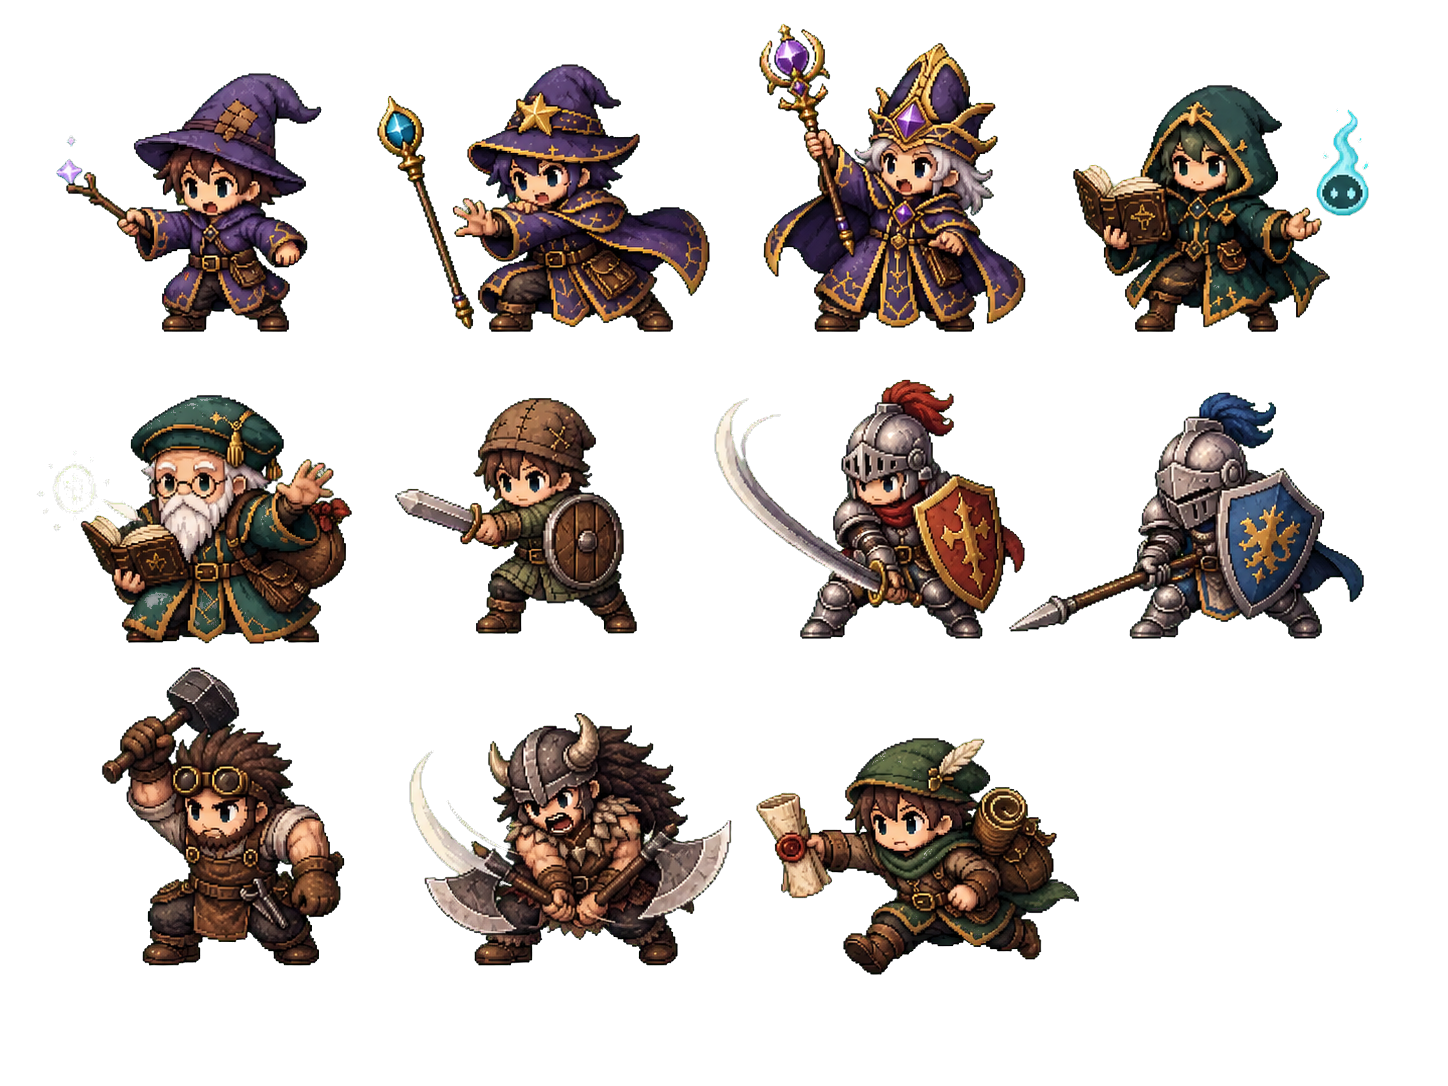
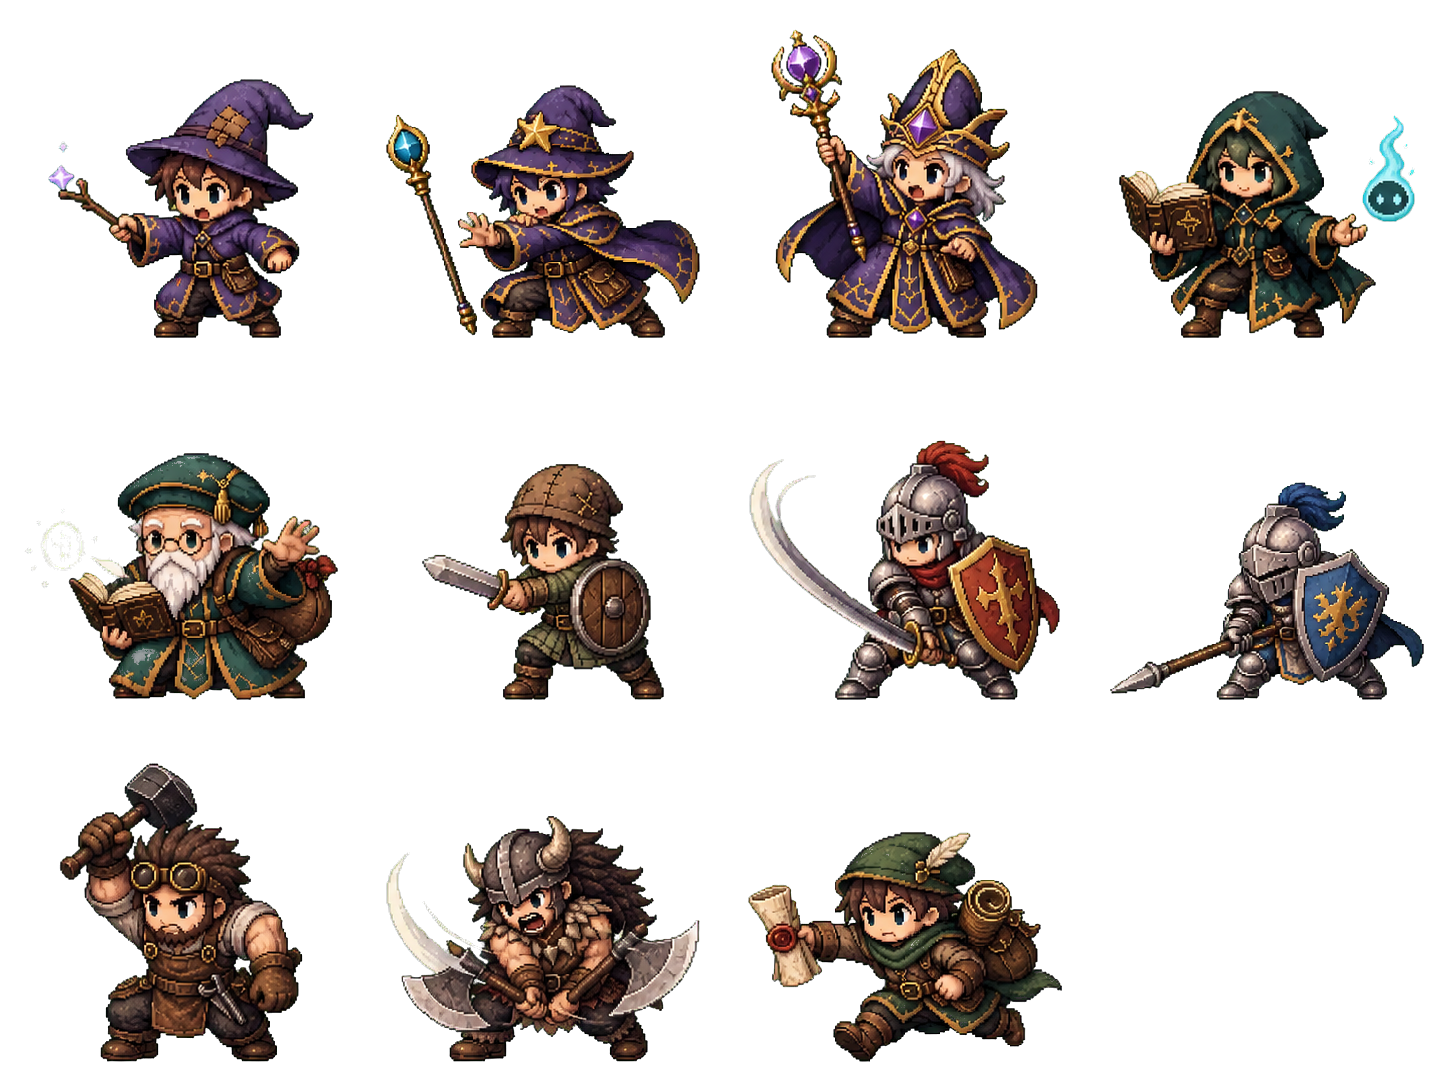
Show only controllable sessions and isolate attack sprites

diff --git a/guild.html b/guild.html
@@ -922,6 +922,7 @@
       let sessionPanelVisible = window.innerWidth >= 900;
       let sessionFilter = '';
       let lastFocusedElement = null;
+      const terminalControl = new Map();
       const REDUCED_MOTION = window.matchMedia('(prefers-reduced-motion: reduce)').matches;
 
       const DEMO = [
@@ -966,6 +967,7 @@
                 connEl.textContent = '온라인';
                 connEl.className = '';
                 layout();
+                probeTerminalControl(list);
               }
             } catch {}
           };
@@ -986,6 +988,27 @@
           agents = DEMO_MODE ? DEMO : [];
           layout();
         }
+      }
+
+      function probeTerminalControl(list) {
+        if (DEMO_MODE) return;
+        for (const a of list) {
+          const pid = Number(a?.pid);
+          if (!Number.isFinite(pid) || terminalControl.has(pid)) continue;
+          terminalControl.set(pid, 'checking');
+          fetch(API + '/api/screen/' + encodeURIComponent(pid))
+            .then((r) => r.json())
+            .then((data) => terminalControl.set(pid, data?.ok === true))
+            .catch(() => terminalControl.set(pid, false))
+            .finally(() => layout());
+        }
+      }
+
+      function isMapControllable(a) {
+        if (DEMO_MODE) return true;
+        const pid = Number(a?.pid);
+        if (!Number.isFinite(pid)) return false;
+        return terminalControl.get(pid) === true;
       }
 
       // ── 색 유틸 ──────────────────────────────────────────────────────────
@@ -2318,8 +2341,12 @@
         }
         const floor = agents.filter((a) => !DEAD.has(a.state));
         for (const a of floor) if (a.state === 'working' || a.state === 'needs_input') stashedIds.delete(a.id);
-        const restingAgents = floor.filter((a) => a.state === 'idle' || a.state === 'unknown' || stashedIds.has(a.id));
-        const activeAgents = floor.filter((a) => a.state !== 'idle' && a.state !== 'unknown' && !stashedIds.has(a.id));
+        const restingAgents = floor.filter(
+          (a) => a.state === 'idle' || a.state === 'unknown' || stashedIds.has(a.id) || !isMapControllable(a),
+        );
+        const activeAgents = floor.filter(
+          (a) => a.state !== 'idle' && a.state !== 'unknown' && !stashedIds.has(a.id) && isMapControllable(a),
+        );
         const resting = restingAgents.length + agents.length - floor.length;
         countEl.textContent = activeAgents.length + (resting ? ' (+' + resting + ' 막사)' : '');
         if (killsEl) killsEl.textContent = agents.filter((a) => a.state === 'done').length;
@@ -4797,6 +4824,16 @@
         clearTimeout(toastTimer);
         toastTimer = setTimeout(() => (toastEl.style.display = 'none'), 2600);
       }
+      function openAgentInteraction(m, clientX = mouse.x, clientY = mouse.y) {
+        const pid = Number(m?.a?.pid);
+        if (Number.isFinite(pid) && isMapControllable(m.a)) {
+          closeJobMenu();
+          openControlPanel(m.a);
+          readAgentScreen(m.a);
+          return;
+        }
+        openJobMenu(m, clientX, clientY);
+      }
       function openJobMenu(m, clientX = mouse.x, clientY = mouse.y) {
         rememberFocus();
         closeSessionMenu();
@@ -4941,7 +4978,7 @@
         if (b) {
           const m = pickerMembers[Number(b.dataset.pick)];
           closeJobMenu();
-          if (m) openJobMenu(m, mouse.x, mouse.y);
+          if (m) openAgentInteraction(m, mouse.x, mouse.y);
           return;
         }
         const action = e.target.closest('button[data-action]')?.dataset.action;
@@ -5365,7 +5402,7 @@
         const m = hits[0] || null;
         const b = hitBuilding(e.clientX, e.clientY);
         if (hits.length > 1) openMemberPicker(hits, e.clientX, e.clientY);
-        else if (m) openJobMenu(m, e.clientX, e.clientY);
+        else if (m) openAgentInteraction(m, e.clientX, e.clientY);
         else if (b) openSessionMenu(b, e.clientX, e.clientY);
         else {
           closeJobMenu();